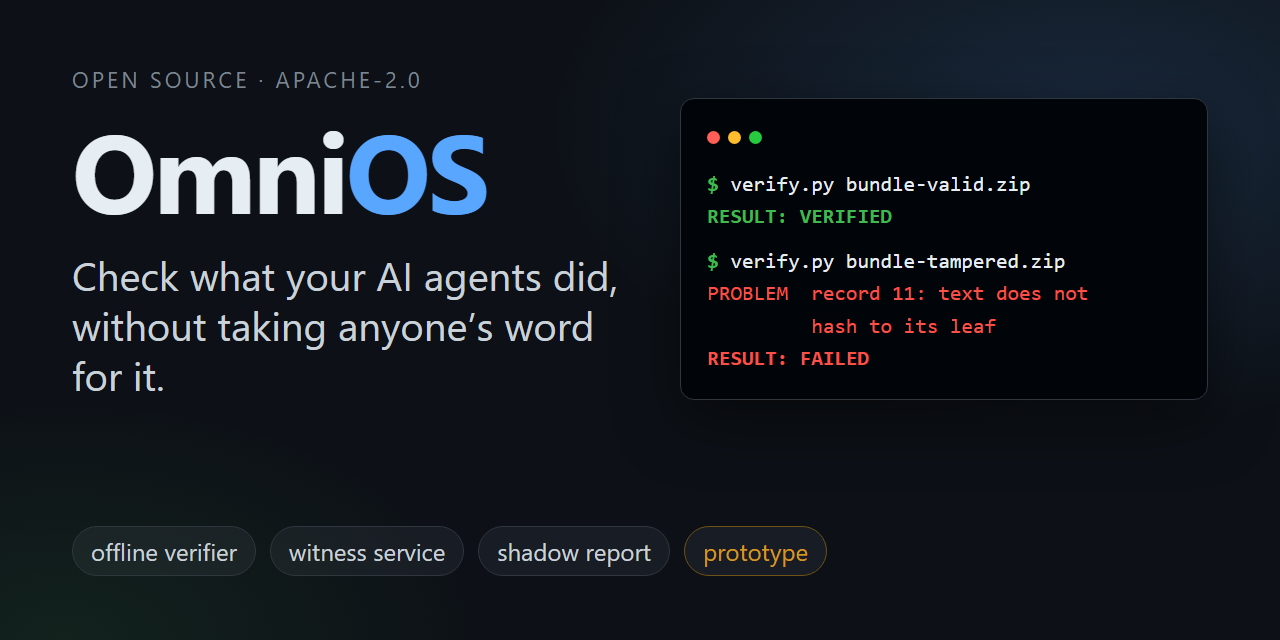
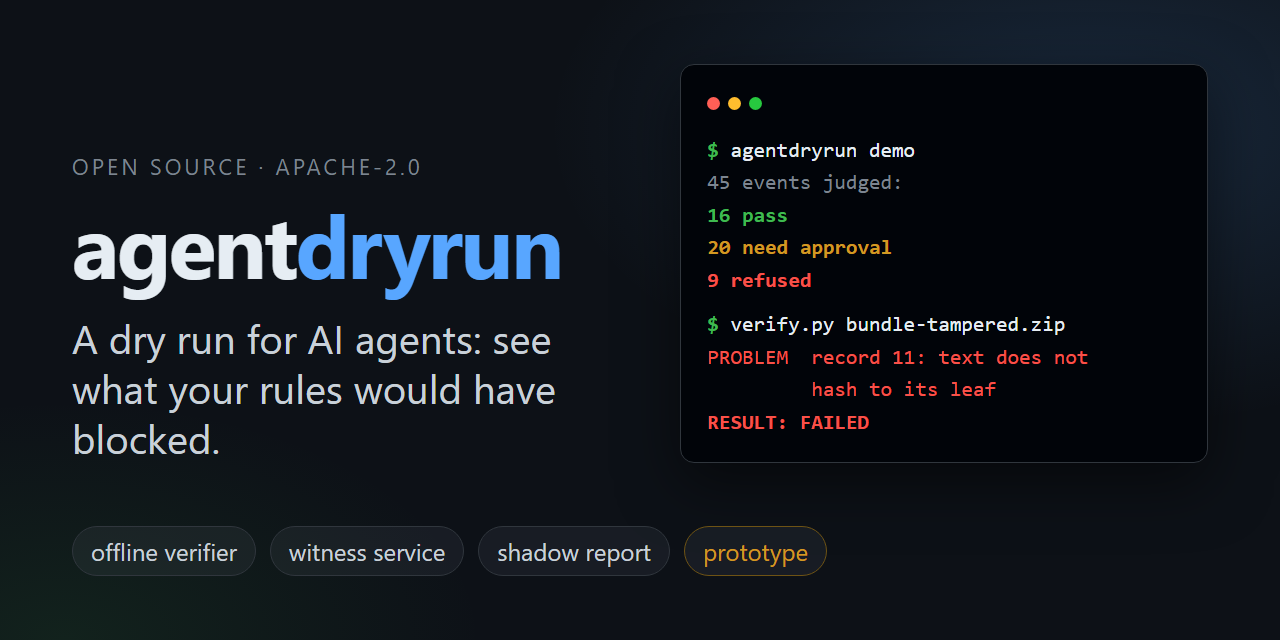
Rename OmniOS to agentdryrun (name collision with an unrelated operating system)
- package, commands, docs, tests, repo URL; protocol identifiers (omnios-evidence-bundle, omnios/<tenant>) kept so signed examples still verify
- README leads with the problem and a one-line analogy; witness wording made precise
- regenerated demo GIF, report screenshot, social preview
- 68 tests; version 0.5.0

diff --git a/examples/shadow-report.html b/examples/shadow-report.html
@@ -8,7 +8,7 @@ h1{font-size:28px;margin:0 0 4px}h2{font-size:19px;margin:30px 0 8px}.mu{color:v
 
 .tw{overflow-x:auto}table{border-collapse:collapse;width:100%;background:var(--sf);font-size:14px}th,td{border:1px solid var(--ln);padding:7px 9px;text-align:left;vertical-align:top}th{font-size:12px;text-transform:uppercase;letter-spacing:.05em;color:var(--mu)}
 .box{background:var(--sf);border:1px solid var(--ln);border-radius:10px;padding:12px 16px;margin:14px 0}.warn{background:var(--wns);border-color:var(--wn)}code{font-family:ui-monospace,Consolas,monospace;font-size:.9em}</style></head><body><main>
-<p class="mu">OmniOS &middot; observe mode &middot; generated 2026-10-23</p>
+<p class="mu">agentdryrun &middot; observe mode &middot; generated 2026-10-23</p>
 <h1>Shadow report: Acme Demo Ltd</h1>
 <div class="box warn"><b>SAMPLE with invented demo data (a made-up company, vendors and amounts). It shows the shape of the report, not a real customer.</b></div>
 <p class="mu">Period 2026-10-06 to 2026-10-19 &middot; agents: ap-agent &middot; rules in force: c919157b2089</p>

diff --git a/agentdryrun/witnessd.py b/agentdryrun/witnessd.py
@@ -22,9 +22,9 @@ Two ways to feed it (same checks, same history, same report):
 Who runs it: someone who is not the log's operator (the customer's audit/security person, an auditor, the party that
 asks for the proof). If YOU run it for a customer, say so plainly: it is independent of their administrators, not of you.
 
-  python -m omnios witness init   --out witness-dir --name witness-1
-  python -m omnios witness run    --config witness-dir/witness.json [--once]
-  python -m omnios witness report --config witness-dir/witness.json --month 2026-10 --out reports/
+  python -m agentdryrun witness init   --out witness-dir --name witness-1
+  python -m agentdryrun witness run    --config witness-dir/witness.json [--once]
+  python -m agentdryrun witness report --config witness-dir/witness.json --month 2026-10 --out reports/
 
 Exit codes: 0 all logs verified · 2 at least one ALERT · 4 a log could not be reached.
 """
@@ -68,14 +68,14 @@ def _label(entry: dict) -> str:
 
 
 def _http_get(url: str) -> dict:
-    req = urllib.request.Request(url, headers={"User-Agent": "omnios-witnessd/2"})
+    req = urllib.request.Request(url, headers={"User-Agent": "agentdryrun-witnessd/2"})
     with urllib.request.urlopen(req, timeout=20) as r:
         return json.loads(r.read().decode("utf-8"))
 
 
 def _http_post(url: str, body: dict) -> dict:
     req = urllib.request.Request(url, data=json.dumps(body).encode("utf-8"), method="POST",
-                                 headers={"Content-Type": "application/json", "User-Agent": "omnios-witnessd/2"})
+                                 headers={"Content-Type": "application/json", "User-Agent": "agentdryrun-witnessd/2"})
     with urllib.request.urlopen(req, timeout=20) as r:
         return json.loads(r.read().decode("utf-8"))
 
@@ -99,7 +99,7 @@ def init_witness(out_dir: str, name: str = "witness-1") -> dict:
         cfg_path.write_text(json.dumps({
             "name": name, "key_file": "witness.key", "state_file": "witness_state.json", "format": "v1",
             "interval": 300, "max_gap_seconds": 3600,
-            "logs": [{"name": "example", "url": "https://omnios.example.com", "tenant": "example",
+            "logs": [{"name": "example", "url": "https://log.example.com", "tenant": "example",
                       "log_key": "<base64 log public key, obtained from the customer by another route>", "post_cosign": True}]},
             # for PUSH only (no "url"): {"name": "...", "origin": "omnios/<tenant>", "log_key": "<base64>"}
             indent=2), encoding="utf-8")
@@ -196,7 +196,7 @@ class WitnessDaemon:
 
     def run(self, once: bool = False) -> int:
         print(f"witness '{self.name}'  public key: {self.public_key}")
-        print(f"  (the tenant registers it:  python -m omnios tenant witness --id <tenant> --name {self.name} --key {self.public_key})")
+        print(f"  (the tenant registers it:  python -m agentdryrun tenant witness --id <tenant> --name {self.name} --key {self.public_key})")
         while True:
             code = self.poll_once()
             interval = int(self.cfg.get("interval", 0))
@@ -239,11 +239,11 @@ class WitnessDaemon:
             return 200, {"cosignature": line, "size": size, "witness": self.name}
 
     def app(self):
-        """The witness's own HTTP service:  python -m omnios witness serve --config witness.json"""
+        """The witness's own HTTP service:  python -m agentdryrun witness serve --config witness.json"""
         from fastapi import FastAPI
         from fastapi.responses import JSONResponse
 
-        api = FastAPI(title=f"OmniOS witness {self.name}", version="2.0-draft")
+        api = FastAPI(title=f"agentdryrun witness {self.name}", version="2.0-draft")
 
         @api.get("/witness/v1/info")
         def info() -> dict:
@@ -260,7 +260,7 @@ class WitnessDaemon:
         import uvicorn
         print(f"witness '{self.name}'  public key: {self.public_key}")
         print(f"  logs it accepts: {', '.join(_origin(e) for e in self.cfg['logs'])}")
-        print(f"  (a customer registers it:  python -m omnios tenant witness --id <tenant> --name {self.name} "
+        print(f"  (a customer registers it:  python -m agentdryrun tenant witness --id <tenant> --name {self.name} "
               f"--key {self.public_key} --url http://<this host>:{port})")
         uvicorn.run(self.app(), host=host, port=port, log_level="warning")
         return 0
@@ -292,7 +292,7 @@ class WitnessDaemon:
                 "generated_at": time.strftime("%Y-%m-%d %H:%M:%S UTC", time.gmtime(self._clock())), "logs": out_logs}
 
 
-_REPORT_HTML = """<!doctype html><html lang="en"><head><meta charset="utf-8"><title>OmniOS witness report {month}</title>
+_REPORT_HTML = """<!doctype html><html lang="en"><head><meta charset="utf-8"><title>agentdryrun witness report {month}</title>
 <style>body{{font:15px/1.5 system-ui,sans-serif;max-width:860px;margin:32px auto;padding:0 16px;color:#0e1a2b}}
 table{{border-collapse:collapse;width:100%}}th,td{{border:1px solid #d8dde6;padding:8px 10px;text-align:left}}th{{background:#edf0f5}}
 .CLEAN{{color:#17693f;font-weight:600}}.ALERT{{color:#9b2226;font-weight:700}}.GAPS,.NOCOVERAGE{{color:#8a4700;font-weight:600}}

diff --git a/agentdryrun/__main__.py b/agentdryrun/__main__.py
@@ -1,10 +1,10 @@
 """
-python -m omnios demo                                                                 the whole thing on the shipped example, one command
-python -m omnios shadow --rules rules.json --events events.csv --out report.html    judge what your agent did (dry run, local)
+python -m agentdryrun demo                                                                 the whole thing on the shipped example, one command
+python -m agentdryrun shadow --rules rules.json --events events.csv --out report.html    judge what your agent did (dry run, local)
                                                                                       (--events also takes an OpenTelemetry / Langfuse / LangSmith export)
-python -m omnios import traces.json --out events.jsonl                               turn a trace export into an events file
-python -m omnios rules check rules.json                                              validate a rules file
-python -m omnios witness init|run|serve|report                                       the independent witness
+python -m agentdryrun import traces.json --out events.jsonl                               turn a trace export into an events file
+python -m agentdryrun rules check rules.json                                              validate a rules file
+python -m agentdryrun witness init|run|serve|report                                       the witness service
 python verify.py bundle.zip --log-key ...                                            the offline verifier (single file)
 """
 from __future__ import annotations
@@ -16,7 +16,7 @@ from typing import Optional
 
 
 def main(argv: Optional[list] = None) -> int:
-    ap = argparse.ArgumentParser(prog="omnios", description=__doc__, formatter_class=argparse.RawDescriptionHelpFormatter)
+    ap = argparse.ArgumentParser(prog="agentdryrun", description=__doc__, formatter_class=argparse.RawDescriptionHelpFormatter)
     sub = ap.add_subparsers(dest="cmd", required=True)
 
     p = sub.add_parser("shadow", help="judge what an agent already did against a rules file (dry run)")
@@ -30,7 +30,7 @@ def main(argv: Optional[list] = None) -> int:
     p.add_argument("--banner", help="a notice shown at the top of the report")
 
     p = sub.add_parser("demo", help="run the shadow report and the verifier on the shipped example (one command)")
-    p.add_argument("--out", default="omnios-demo-report.html", help="where to write the demo's shadow report")
+    p.add_argument("--out", default="agentdryrun-demo-report.html", help="where to write the demo's shadow report")
 
     p = sub.add_parser("import", help="turn a trace export (OpenTelemetry, Langfuse, LangSmith) into an events file")
     p.add_argument("traces", help="the export: JSON or JSON Lines")
@@ -41,7 +41,7 @@ def main(argv: Optional[list] = None) -> int:
     p = r.add_parser("check", help="validate a rules file")
     p.add_argument("file")
 
-    wp = sub.add_parser("witness", help="run an independent witness for one or many logs").add_subparsers(dest="sub", required=True)
+    wp = sub.add_parser("witness", help="run a witness for one or many logs").add_subparsers(dest="sub", required=True)
     p = wp.add_parser("init", help="create a witness key and a config skeleton")
     p.add_argument("--out", required=True)
     p.add_argument("--name", default="witness-1")

diff --git a/tools/make_demo_gif.py b/tools/make_demo_gif.py
@@ -1,4 +1,4 @@
-"""Re-creates docs/assets/demo.gif from the REAL output of `python -m omnios demo`.
+"""Re-creates docs/assets/demo.gif from the REAL output of `python -m agentdryrun demo`.
 
 Optional developer tool (needs Pillow: pip install pillow). Nothing in the verifier or the shadow report needs it.
 The text in the GIF is whatever the command printed when you ran this script; only the typing speed is staged.
@@ -14,7 +14,7 @@ from PIL import Image, ImageDraw, ImageFont
 
 ROOT = os.path.dirname(os.path.dirname(os.path.abspath(__file__)))
 OUT = os.path.join(ROOT, "docs", "assets", "demo.gif")
-COMMAND = "python -m omnios demo"
+COMMAND = "python -m agentdryrun demo"
 
 FONT_DIRS = ["C:/Windows/Fonts", "/usr/share/fonts/truetype/dejavu", "/System/Library/Fonts", "/Library/Fonts"]
 REGULAR = ["consola.ttf", "DejaVuSansMono.ttf", "Menlo.ttc"]
@@ -37,7 +37,7 @@ def load_font(names):
 def real_output():
     env = dict(os.environ, PYTHONIOENCODING="utf-8", PYTHONPATH=ROOT)
     with tempfile.TemporaryDirectory() as d:
-        p = subprocess.run([sys.executable, "-m", "omnios", "demo"], cwd=d, env=env, capture_output=True, text=True, encoding="utf-8")
+        p = subprocess.run([sys.executable, "-m", "agentdryrun", "demo"], cwd=d, env=env, capture_output=True, text=True, encoding="utf-8")
         if p.returncode != 0:
             sys.exit("the demo did not finish as expected:\n" + p.stdout + p.stderr)
         return p.stdout.rstrip("\n").splitlines()
@@ -50,7 +50,7 @@ def style(line):
         return RED, line.startswith("RESULT")
     if line.startswith("["):
         return BLUE, True
-    if line.startswith("OmniOS demo"):
+    if line.startswith("agentdryrun demo"):
         return DIM, False
     return FG, False
 

diff --git a/examples/agent_demo.py b/examples/agent_demo.py
@@ -1,8 +1,8 @@
-"""A toy front-office assistant, recorded with two lines of OmniOS. Everything here is invented; there is no model, no
+"""A toy front-office assistant, recorded with two lines of agentdryrun. Everything here is invented; there is no model, no
 network and no real customer: the "agent" replays a fixed list of calls, the way a real one would make them.
 
     python examples/agent_demo.py                      # writes agent-events.jsonl
-    python -m omnios shadow --rules examples/rules-front-office.json --events agent-events.jsonl --out report.html
+    python -m agentdryrun shadow --rules examples/rules-front-office.json --events agent-events.jsonl --out report.html
 
 The point: your own agent only needs `@rec.tool("name")` on each function it can call. Compare examples/rules-front-office.json.
 """
@@ -12,7 +12,7 @@ import sys
 HERE = os.path.dirname(os.path.abspath(__file__))
 sys.path.insert(0, os.path.dirname(HERE))
 
-from omnios.record import Recorder  # noqa: E402
+from agentdryrun.record import Recorder  # noqa: E402
 
 RULES = os.path.join(HERE, "rules-front-office.json")
 
@@ -108,7 +108,7 @@ def main(out_path="agent-events.jsonl"):
         os.remove(out_path)                              # the demo starts from an empty file; real use appends forever
     n = replay(build(out_path))
     print(f"the toy agent made {n} tool calls; recorded to {out_path} (only the fields the rules look at)")
-    print(f"next: python -m omnios shadow --rules examples/rules-front-office.json --events {out_path} --out report.html")
+    print(f"next: python -m agentdryrun shadow --rules examples/rules-front-office.json --events {out_path} --out report.html")
     return n
 
 

diff --git a/verify.py b/verify.py
@@ -1,6 +1,6 @@
 #!/usr/bin/env python3
 """
-verify.py — check an OmniOS evidence bundle with nothing but Python 3.9+.   (stand-alone: no OmniOS code needed)
+verify.py — check an agentdryrun evidence bundle with nothing but Python 3.9+.   (stand-alone: no agentdryrun code needed)
 
     python verify.py bundle.zip --log-key <base64 public key of the log>  [--witness name=<base64 key> ...] [--json]
 
@@ -578,7 +578,7 @@ def _check_rules(parsed: dict, rep: dict) -> None:
 # ───────────────────────── command line ─────────────────────────
 def render(rep: dict) -> str:
     i = rep.get("info", {})
-    out = ["OmniOS evidence bundle", "=" * 60]
+    out = ["agentdryrun evidence bundle", "=" * 60]
     if i:
         out += [f"tenant           {i.get('tenant')}   (profile {i.get('profile')}, admin quorum {i.get('admin_quorum')})",
                 f"log              {i.get('origin')}   size {i.get('size')}",
@@ -611,7 +611,7 @@ def render(rep: dict) -> str:
 
 
 def main(argv: Optional[list] = None) -> int:
-    ap = argparse.ArgumentParser(description="Verify an OmniOS evidence bundle offline")
+    ap = argparse.ArgumentParser(description="Verify an agentdryrun evidence bundle offline")
     ap.add_argument("bundle")
     ap.add_argument("--log-key", help="base64 public key of the log, obtained out of band")
     ap.add_argument("--witness", action="append", default=[], metavar="NAME=KEY", help="a trusted witness public key (repeatable)")

diff --git a/agentdryrun/demo.py b/agentdryrun/demo.py
@@ -1,4 +1,4 @@
-"""python -m omnios demo: the three things this repository does, on the shipped example, in one command.
+"""python -m agentdryrun demo: the three things this repository does, on the shipped example, in one command.
 
 It only reads files from examples/ and writes one HTML report. It sends nothing anywhere.
 """
@@ -37,10 +37,10 @@ def main(args) -> int:
     needed = [os.path.join(EX, n) for n in ("rules-finance.json", "events.csv", "bundle-valid.zip", "bundle-tampered.zip")]
     missing = [p for p in needed if not os.path.isfile(p)]
     if missing:
-        print("the demo needs the examples/ folder of the repository (git clone https://github.com/ntinosgkiou-code/omnios); missing: " + ", ".join(os.path.basename(p) for p in missing), file=sys.stderr)
+        print("the demo needs the examples/ folder of the repository (git clone https://github.com/ntinosgkiou-code/agentdryrun); missing: " + ", ".join(os.path.basename(p) for p in missing), file=sys.stderr)
         return 3
 
-    print("OmniOS demo: what this repository does, on the shipped example (a made-up company, invented data).\n")
+    print("agentdryrun demo: what this repository does, on the shipped example (a made-up company, invented data).\n")
 
     print("[1/3] Shadow report: where would the rules have stopped a payments agent?")
     ns = argparse.Namespace(rules=os.path.join(EX, "rules-finance.json"), events=os.path.join(EX, "events.csv"), out=args.out, json=None,

diff --git a/agentdryrun/record.py b/agentdryrun/record.py
@@ -1,6 +1,6 @@
-"""Record what your agent does, in two lines, and judge it later with `python -m omnios shadow`.
+"""Record what your agent does, in two lines, and judge it later with `python -m agentdryrun shadow`.
 
-    from omnios.record import Recorder
+    from agentdryrun.record import Recorder
     rec = Recorder("agent-events.jsonl", rules="my-rules.json")
 
     @rec.tool("payments.send")
@@ -70,7 +70,7 @@ class Recorder:
         except OSError as e:
             if not self._warned:
                 self._warned = True
-                warnings.warn(f"omnios Recorder could not write {self.path} ({e}); the agent keeps running without recording", RuntimeWarning, stacklevel=3)
+                warnings.warn(f"agentdryrun Recorder could not write {self.path} ({e}); the agent keeps running without recording", RuntimeWarning, stacklevel=3)
         return ev
 
     # ───────────────────────── wrapping ─────────────────────────

diff --git a/agentdryrun/report.py b/agentdryrun/report.py
@@ -90,7 +90,7 @@ def render_html(summary: dict, tenant_name: str, generated: Optional[float] = No
     pct = round(100 * s["needs_review_share"])
     return f"""<!doctype html><html lang="en"><head><meta charset="utf-8"><meta name="viewport" content="width=device-width,initial-scale=1">
 <title>Shadow report: {e(tenant_name)}</title><style>{_CSS}</style></head><body><main>
-<p class="mu">OmniOS &middot; observe mode &middot; generated {e(gen)}</p>
+<p class="mu">agentdryrun &middot; observe mode &middot; generated {e(gen)}</p>
 <h1>Shadow report: {e(tenant_name)}</h1>
 {'<div class="box warn"><b>' + e(banner) + '</b></div>' if banner else ''}
 <p class="mu">Period {e(when(s['first_at']))} to {e(when(s['last_at']))} &middot; agents: {e(', '.join(s['agents']) or '-')} &middot; rules in force: {e(', '.join(s['policy_hashes']) or '-')}</p>

diff --git a/agentdryrun/shadow.py b/agentdryrun/shadow.py
@@ -1,9 +1,9 @@
 """
 shadow.py: judge what an agent already did against a rules file, as a dry run. Nothing is blocked, nothing is executed.
 
-    python -m omnios shadow --rules examples/rules-finance.json --events examples/events.csv --out report.html
+    python -m agentdryrun shadow --rules examples/rules-finance.json --events examples/events.csv --out report.html
 
-Every reported event is judged by the same decision order the OmniOS gateway uses (permission, risk, deny rules, escalate rules,
+Every reported event is judged by the same decision order the gateway uses (permission, risk, deny rules, escalate rules,
 limits, approvals). Limits count the events you reported inside their own time window (`occurred_at`), because whatever is
 reported actually happened. Everything runs locally; nothing is sent anywhere.
 """

diff --git a/tests/test_demo.py b/tests/test_demo.py
@@ -1,4 +1,4 @@
-"""`python -m omnios demo` runs the shadow report and the verifier on the shipped example. No network: python -m unittest"""
+"""`python -m agentdryrun demo` runs the shadow report and the verifier on the shipped example. No network: python -m unittest"""
 import contextlib
 import io
 import os
@@ -10,7 +10,7 @@ HERE = os.path.dirname(os.path.abspath(__file__))
 ROOT = os.path.dirname(HERE)
 sys.path.insert(0, ROOT)
 
-from omnios.__main__ import main  # noqa: E402
+from agentdryrun.__main__ import main  # noqa: E402
 
 
 class DemoTest(unittest.TestCase):

diff --git a/tests/test_importers.py b/tests/test_importers.py
@@ -11,9 +11,9 @@ HERE = os.path.dirname(os.path.abspath(__file__))
 ROOT = os.path.dirname(HERE)
 sys.path.insert(0, ROOT)
 
-from omnios import importers, shadow  # noqa: E402
-from omnios.__main__ import main  # noqa: E402
-from omnios.report import load_events, summarize  # noqa: E402
+from agentdryrun import importers, shadow  # noqa: E402
+from agentdryrun.__main__ import main  # noqa: E402
+from agentdryrun.report import load_events, summarize  # noqa: E402
 
 EX = os.path.join(ROOT, "examples")
 PERMS = {"finance:pay", "finance:vendor-admin", "finance:books"}
